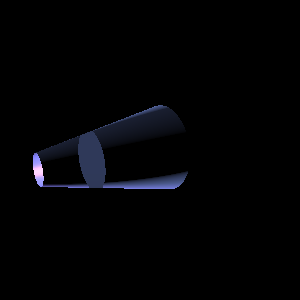
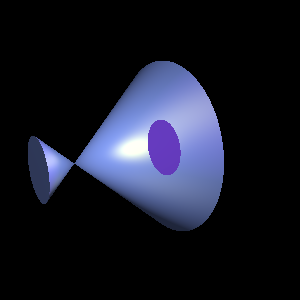
cones are working more

Changed region(s): [[0.09, 0.18, 0.75, 0.78]]

diff --git a/ray/surface/Cone.java b/ray/surface/Cone.java
@@ -29,8 +29,8 @@ public class Cone extends Surface {
 	public Cone() { }
 
 	/**
-	 * Tests this surface for intersection witheightray. If an intersection is found
-	 * record is filled out witheightthe information about the intersection and the
+	 * Tests this surface for intersection with ray. If an intersection is found
+	 * record is filled out with the information about the intersection and the
 	 * method returns true. It returns false otherwise and the information in
 	 * outRecord is not modified.
 	 *
@@ -42,12 +42,12 @@ public class Cone extends Surface {
 		
 		Point3 e = new Point3(rayIn.origin);
 		Vector3 d = new Vector3(rayIn.direction);
-		Point3 p = new Point3(e.x-center.x, e.y-center.y, e.z-center.z);
 		Point3 c = new Point3(center);
-		double h = height;
+		Point3 p = new Point3(e.x-c.x, e.y-c.y, e.z-c.z);
+		double h = tipz-c.z;
 		double r = radius;
 		
-		double s = Math.pow(radius, 2)/Math.pow(height, 2);
+		double s = Math.pow(r, 2)/Math.pow(h, 2);
 		
 		double A = Math.pow(d.x, 2) + Math.pow(d.y, 2) - (s*Math.pow(d.z, 2));
 		double B = 2 * (p.x*d.x + p.y*d.y - s*(p.z-h)*d.z);
@@ -62,8 +62,8 @@ public class Cone extends Surface {
 			double t1 = ((-B) - Math.sqrt(discriminant)) / 	(2 * A);
 			double t = 0.0;
 
-			double tc0 = ((c.z+(h/2))-p.z)/d.z;
-			double tc1 = ((c.z+(h/2))-p.z)/d.z;
+			double tc0 = ((c.z+(height/2))-e.z)/d.z;
+			double tc1 = ((c.z-(height/2))-e.z)/d.z;
 
 			Point3 q0 = new Point3();
 			Point3 q1 = new Point3();
@@ -75,10 +75,11 @@ public class Cone extends Surface {
 			rayIn.evaluate(qc0, tc0);
 			rayIn.evaluate(qc1, tc1);
 			
-			boolean cond0 = (q0.z >= c.z - h/2 && q0.z <= c.z + h/2);
-			boolean cond1 = (q1.z >= c.z - h/2 && q1.z <= c.z + h/2);
-			boolean a0 = Math.pow(qc0.x+c.x, 2)+Math.pow(qc0.y+c.y, 2)<=Math.pow(radius, 2);
-			boolean a1 = Math.pow(qc1.x-c.x, 2)+Math.pow(qc1.y-c.y, 2)<=Math.pow(radius, 2);
+			boolean cond0 = (q0.z >= c.z - height/2 && q0.z <= c.z + height/2);
+			boolean cond1 = (q1.z >= c.z - height/2 && q1.z <= c.z + height/2);
+			
+			boolean a0 = Math.pow(qc0.x+c.x, 2)+Math.pow(qc0.y+c.y, 2)<=Math.pow(r, 2);
+			boolean a1 = Math.pow(qc1.x-c.x, 2)+Math.pow(qc1.y-c.y, 2)<=Math.pow(r, 2);
 
 			if (cond0 && cond1) {
 				if (t0 < t1) {
@@ -99,10 +100,11 @@ public class Cone extends Surface {
 			}
 			Point3 q = new Point3();
 			rayIn.evaluate(q, t);
+			double rad = (-radius/h) * (q.z - h);
+			outRecord.location.set(q);
 			q.x -= c.x;
 			q.y -= c.y;
-			q.z = (r/h);
-			outRecord.location.set(q);
+			q.z = (rad/h);
 			outRecord.surface = this;
 			outRecord.t = t;
 			if(a0) {
@@ -111,7 +113,7 @@ public class Cone extends Surface {
 				outRecord.normal.set(new Vector3(0,0,1));				
 			} else {
 				outRecord.normal.set(q);
-				outRecord.normal.scale(1);
+				outRecord.normal.scale(-1);
 			}
 			outRecord.normal.normalize();
 

diff --git a/ray/surface/Cylinder.java b/ray/surface/Cylinder.java
@@ -10,27 +10,17 @@ public class Cylinder extends Surface {
 
 	/** The center of the cylinder */
 	protected final Point3 center = new Point3();
-
-	public void setCenter(Point3 center) {
-		this.center.set(center);
-	}
+	public void setCenter(Point3 center) {this.center.set(center);}
 
 	/** The radius of the cylinder. */
 	protected double radius = 1.0;
-
-	public void setRadius(double radius) {
-		this.radius = radius;
-	}
-
+	public void setRadius(double radius) {this.radius = radius;}
 	/**
 	 * The height of the cylinder in the z-direction. The cylinder extends from
 	 * center.z - height/2 to center.z + height/2
 	 */
 	protected double height = 1.0;
-
-	public void setHeight(double height) {
-		this.height = height;
-	}
+	public void setHeight(double height) {this.height = height;}
 
 	public Cylinder() {}
 
